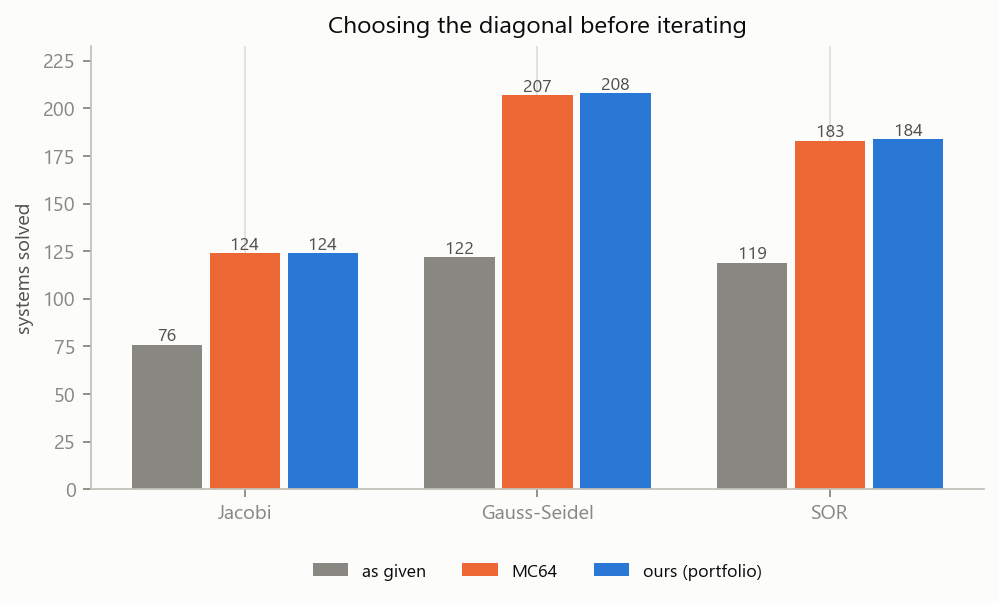
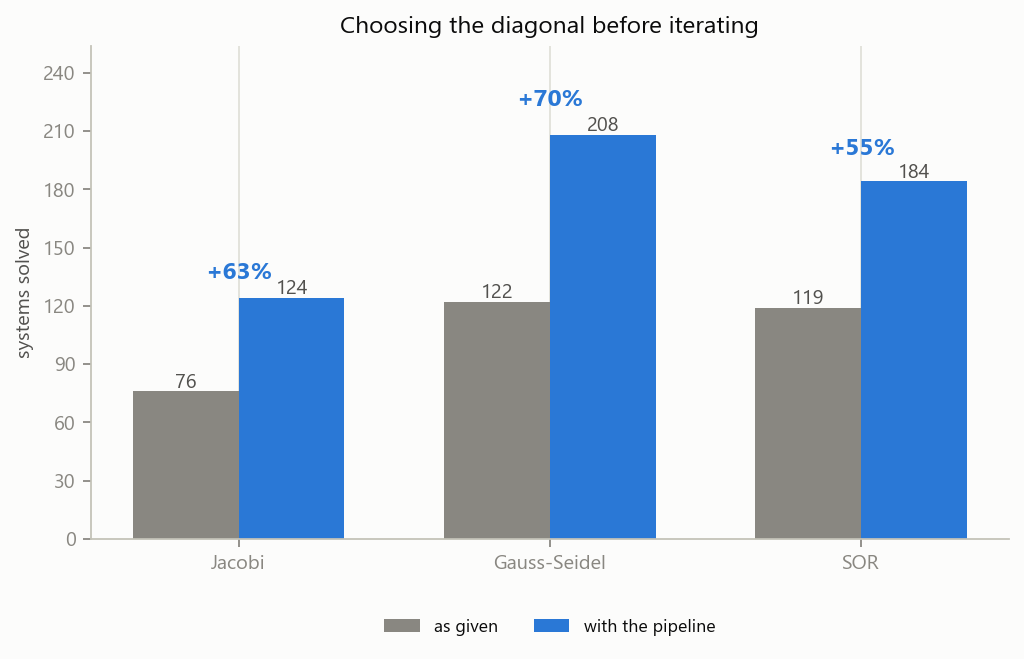
Draw the claim the headline figure is making, and pair it with the right baseline
The headline chart had three bars -- as given, MC64, ours -- and the last two came out
124/124, 207/208, 183/184. A reader saw three near-identical columns and asked whether
the pipeline did anything, which is not the question the figure exists to answer. The
claim is two-valued: with the pipeline against without. Two bars now, with the gain
printed above each pair. The per-objective attribution is a table in RESULTS.md, where
numbers can carry their denominators; 15_reordering_rescue is gone, since its content
was that table drawn as bars of 0, 3 and 1.

Drawing it exposed a number mismatch in the write-up. The 'before' column was taken from
the main sweep (Jacobi 75, Gauss-Seidel 121) while the 'after' came from the reordering
study, and the divergence guard was raised from 1e4 to 1e12 between those two runs. The
stricter guard suppresses one or two convergences, so that pairing inflated the gain for
free. Both columns now come from the same run: 76 -> 124 (+63%), 122 -> 208 (+70%),
119 -> 184 (+55%), and SCOPE says why.

Added 20_ilu_hole for the second contribution, which had no figure at all. Left panel:
on the 166 matrices where no incomplete factorization can be built, Gauss-Seidel solves
0, GMRES 11, BiCGSTAB 12, and sparse direct 148 -- so these are systems the iterative
toolkit cannot reach rather than intrinsically hard ones. Right panel: choosing the
diagonal first makes 150 constructible and 17 solve. The gap between 150 and 17 is drawn
rather than hidden.

Changed region(s): [[0.0, 0.0896, 0.993, 0.8657], [0.3103, 0.9254, 0.7758, 0.9851], [0.3103, 0.0299, 0.7447, 0.0597]]

diff --git a/tools/make_figures.py b/tools/make_figures.py
@@ -585,93 +585,47 @@ def _solved_by(reo, cond, method):
 
 
 def fig_reordering_scoreboard(reo):
-    """Systems solved by each stationary method under each condition.
+    """The headline: what the stationary methods solve with and without the pipeline.
 
-    The headline. Counts, not rates: every condition sees the same corpus, so the
-    denominator is identical and a rate would only hide the size of the change.
+    Two bars, because the claim is two-valued. An earlier version drew MC64 as a third
+    bar to show what one component contributes, which put a near-identical third column
+    beside ours and made the reader's question "did the pipeline do anything?" rather
+    than "how much did it help?". That attribution is a table in RESULTS.md section 8,
+    where the numbers can carry their own denominators.
     """
     methods = [m for m in ("Jacobi", "Gauss-Seidel", "SOR") if m in set(reo.method)]
-    conds = [c for c in COND_ORDER if c in set(reo.condition)]
-    if not methods or not conds:
+    if not methods or "best" not in set(reo.condition):
         return
-    fig, ax = plt.subplots(figsize=(7.2, 3.6))
-    w = 0.8 / len(conds)
+    before = [len(_solved_by(reo, "none", m)) for m in methods]
+    after = [len(_solved_by(reo, "best", m)) for m in methods]
+
+    fig, ax = plt.subplots(figsize=(7.4, 4.0))
     x = np.arange(len(methods))
-    for k, c in enumerate(conds):
-        vals = [len(_solved_by(reo, c, m)) for m in methods]
-        pos = x + (k - (len(conds) - 1) / 2) * w
-        ax.bar(pos, vals, w * 0.9, color=COND_COLOUR[c], label=COND_LABEL[c])
-        for xi, v in zip(pos, vals):
-            ax.text(xi, v, str(v), ha="center", va="bottom", fontsize=8, color=INK2)
+    w = 0.34
+    ax.bar(x - w / 2, before, w, color=MUTED, label="as given")
+    ax.bar(x + w / 2, after, w, color=C1, label="with the pipeline")
+    for xi, (b, a) in zip(x, zip(before, after)):
+        ax.text(xi - w / 2, b, str(b), ha="center", va="bottom", fontsize=9, color=INK2)
+        ax.text(xi + w / 2, a, str(a), ha="center", va="bottom", fontsize=9, color=INK2)
+        if b:
+            ax.text(xi, max(b, a) * 1.06, f"+{100 * (a - b) / b:.0f}%", ha="center",
+                    va="bottom", fontsize=11, color=C1, fontweight="bold")
     ax.set_xticks(x)
     ax.set_xticklabels(methods)
     ax.set_ylabel("systems solved")
     ax.set_title("Choosing the diagonal before iterating")
-    _count_axis(ax, [len(_solved_by(reo, c, m)) for c in conds for m in methods],
-                len(conds))
+    _count_axis(ax, before + after, 2)
+    ax.set_ylim(0, max(after) * 1.22)
     _hide_grid_x(ax)
     n_mat = reo.matrix.nunique()
     save(fig, "14_reordering_scoreboard",
-         "Systems solved out of {} matrices. 'As given' is the order the rows arrived "
-         "in; MC64 maximises the product of the diagonal; ours computes all four "
-         "candidate permutations and keeps the one with the smallest estimated "
-         "rho(T_GS). Because 'no permutation' is one of those candidates, the portfolio "
-         "cannot score below the control.".format(n_mat))
-
-
-def fig_reordering_rescue(reo):
-    """Who rescues what: MC64, ours, or both.
-
-    The bar that matters is 'ours only' -- systems ours solves that MC64 does not. If it
-    is small, the contribution is the guarantee and the portfolio, not the objective.
-    """
-    methods = [m for m in ("Jacobi", "Gauss-Seidel", "SOR") if m in set(reo.method)]
-    if not methods:
-        return
-    # 'Neither' is 15x the recovered categories and, drawn as a bar, flattens the three
-    # that carry the comparison into invisible slivers. It is reported per method as a
-    # number instead -- present, but not crowding out the question the chart asks.
-    cats = ["MC64 only", "both", "ours only"]
-    colours = [C2, C3, C1]
-    seen, unrecovered = [], []
-    fig, ax = plt.subplots(figsize=(7.2, 3.8))
-    w = 0.8 / len(cats)
-    x = np.arange(len(methods))
-    for m in methods:
-        base = _solved_by(reo, "none", m)
-        mc = _solved_by(reo, "mc64", m) - base
-        ours = _solved_by(reo, "best", m) - base
-        unrecovered.append(len(set(reo[reo.method == m].matrix) - base - mc - ours))
-    for k, (cat, col) in enumerate(zip(cats, colours)):
-        vals = []
-        for m in methods:
-            base = _solved_by(reo, "none", m)
-            mc = _solved_by(reo, "mc64", m) - base
-            ours = _solved_by(reo, "best", m) - base
-            pick = {"MC64 only": mc - ours, "both": mc & ours,
-                    "ours only": ours - mc}[cat]
-            vals.append(len(pick))
-        seen += vals
-        pos = x + (k - (len(cats) - 1) / 2) * w
-        ax.bar(pos, vals, w * 0.9, color=col, label=cat)
-        for xi, v in zip(pos, vals):
-            ax.text(xi, v, str(v), ha="center", va="bottom", fontsize=8, color=INK2)
-    ax.set_xticks(x)
-    ax.set_xticklabels(["{}\nstill unrecovered: {}".format(m, u)
-                        for m, u in zip(methods, unrecovered)])
-    ax.set_ylabel("matrices recovered")
-    ax.set_title("Of the systems that fail in the order they arrive, which are recovered")
-    _count_axis(ax, seen, len(cats))
-    _hide_grid_x(ax)
-    save(fig, "15_reordering_rescue",
-         "Restricted to systems the method fails on as given, so the bars measure "
-         "recovery rather than difficulty. 'Ours only' is the column the novelty claim "
-         "rests on: matrices recovered by the convergence-oriented objectives that "
-         "MC64's product objective does not. It is 4 across all three methods, against "
-         "197 recovered by both -- the reordering idea works and is overwhelmingly "
-         "MC64's result, not this objective's. 'MC64 only' is 2, where the portfolio's "
-         "cheap power-iteration estimate ranked a worse candidate first. The much "
-         "larger count of systems no permutation recovers is printed under each method.")
+         f"Systems solved out of {n_mat} matrices, with the solvers themselves unchanged "
+         "-- only the order of the rows and, for SOR, the relaxation factor. "
+         f"{sum(after) - sum(before)} systems recovered across the three methods and "
+         "none lost, which the portfolio guarantees rather than merely achieves: "
+         "'change nothing' is one of the candidates it selects among. Which objective "
+         "won each matrix, and what each contributes on its own, is in RESULTS.md "
+         "section 8.")
 
 
 def fig_dominance(reo):
@@ -947,6 +901,80 @@ def fig_iteration_counts(res):
          "steps, not less work; figure 04 counts the work.")
 
 
+def fig_ilu_hole(res, probe):
+    """The 166 matrices on which no incomplete factorization can be built.
+
+    Two panels because it is a two-part claim. Left: the hole is real and it takes the
+    whole preconditioned family down at once -- on those matrices the iterative solvers
+    collectively manage almost nothing while a sparse direct solver handles 148 of them.
+    Right: choosing the diagonal first makes 150 of the 166 constructible.
+
+    The gap between 150 built and 17 solved is drawn, not hidden. A constructible
+    preconditioner is not a converging solve, and 133 matrices get one and still fail.
+    """
+    n_total = len(probe)
+    if not n_total:
+        return
+    targets = set(probe.matrix)
+    base = res[(res.refinement_passes == 0) & (res.matrix.isin(targets))]
+
+    fig, (ax, ax2) = plt.subplots(1, 2, figsize=(9.6, 3.9),
+                                  gridspec_kw={"width_ratios": [1.15, 1]})
+
+    # --- left: who can solve these today
+    rows = [("Gauss-Seidel", C3), ("GMRES(30)", "#8b5cf6"), ("BiCGSTAB", C2),
+            ("spsolve (SuperLU)", C1)]
+    labels, vals, colours = [], [], []
+    for m, colour in rows:
+        s = base[base.method == m]
+        if not len(s):
+            continue
+        labels.append(m)
+        vals.append(int((s.status == "solved").sum()))
+        colours.append(colour)
+    y = np.arange(len(labels))
+    ax.barh(y, vals, 0.6, color=colours)
+    for yi, v in zip(y, vals):
+        ax.text(v, yi, f"  {v}", va="center", fontsize=9, color=INK2)
+    ax.set_yticks(y)
+    ax.set_yticklabels(labels)
+    ax.invert_yaxis()
+    ax.set_xlim(0, n_total * 1.12)
+    ax.xaxis.set_major_locator(mticker.MaxNLocator(integer=True))
+    ax.set_xlabel(f"solved, of the {n_total} matrices where ILU cannot be built")
+    ax.set_title("The hole: no preconditioner, no iterative solve")
+    ax.grid(axis="y", visible=False)
+
+    # --- right: what choosing the diagonal recovers
+    built = int(probe["best"].sum())
+    solved = int((probe["best_status"] == "solved").sum())
+    stages = ["ILU builds\nas given", "ILU builds\nafter step 1", "and solves\nafter step 1"]
+    heights = [0, built, solved]
+    bars = ax2.bar(np.arange(3), heights, 0.55,
+                   color=[STATUS["not_applicable"], C1, STATUS["solved"]])
+    for b, h in zip(bars, heights):
+        ax2.text(b.get_x() + b.get_width() / 2, h, str(h), ha="center", va="bottom",
+                 fontsize=10, color=INK2)
+    ax2.set_xticks(np.arange(3))
+    ax2.set_xticklabels(stages, fontsize=8.5)
+    ax2.set_ylim(0, n_total * 1.15)
+    ax2.yaxis.set_major_locator(mticker.MaxNLocator(integer=True))
+    ax2.set_ylabel(f"matrices (of {n_total})")
+    ax2.set_title("What choosing the diagonal recovers")
+    _hide_grid_x(ax2)
+
+    save(fig, "20_ilu_hole",
+         f"On {n_total} matrices no usable incomplete factorization exists, which removes "
+         "all four preconditioned methods at once. What is left solves almost none of "
+         "them, while a sparse direct solver handles most -- so these are not intrinsically "
+         "hard systems, they are systems the iterative toolkit cannot reach. The cause is "
+         "narrow: build_ilu falls back to diagonal scaling when spilu fails, and a zero on "
+         f"the diagonal closes that door too. Choosing the diagonal first makes {built} of "
+         f"the {n_total} constructible and {solved} solve outright. The gap between those "
+         "two numbers is the honest part: a preconditioner that can be built is not a "
+         "solve, and the remainder get one and still do not converge.")
+
+
 # --------------------------------------------------------------- driver
 
 def main():
@@ -978,6 +1006,7 @@ def main():
     spec = load("spectral.csv")
     study = load("refinement_study.csv")
     reo = load("reordering_study.csv")
+    ilu_probe = load("ilu_reorder_probe.csv")
 
     print(f"\nwriting figures to {OUT}")
     if res is not None:
@@ -998,9 +1027,10 @@ def main():
             fig_prediction(res, spec)
     if study is not None:
         fig_refinement(study)
+    if ilu_probe is not None and res is not None:
+        fig_ilu_hole(res, ilu_probe)
     if reo is not None:
         fig_reordering_scoreboard(reo)
-        fig_reordering_rescue(reo)
         fig_dominance(reo)
 
     if FIGURES:

diff --git a/results/figures/index.md b/results/figures/index.md
@@ -14,6 +14,6 @@
 - `08_hypothesis_coverage.png` -- Stein-Rosenberg (1948) forbids Jacobi-converges-while-Gauss-Seidel-does-not for M-matrices; Householder-John (1958) guarantees Gauss-Seidel for SPD. Coverage of these classes is what explains the benchmark's own headline.
 - `09_prediction_vs_observation.png` -- 'too_slow' is the case the textbook criterion cannot express: rho < 1, so convergence is guaranteed, but not within any usable iteration budget.
 - `10_refinement_effect.png` -- Refinement applied to every method, not to one. Given the same wrapper, Jacobi becomes the most accurate method in the benchmark and the dispatched ILU-Krylov does not -- but Jacobi pays roughly twenty times the work for it, which is why cost is plotted beside accuracy rather than left to a footnote. In the first sweep only one method received refinement, and that is where its accuracy advantage came from.
-- `14_reordering_scoreboard.png` -- Systems solved out of 927 matrices. 'As given' is the order the rows arrived in; MC64 maximises the product of the diagonal; ours computes all four candidate permutations and keeps the one with the smallest estimated rho(T_GS). Because 'no permutation' is one of those candidates, the portfolio cannot score below the control.
-- `15_reordering_rescue.png` -- Restricted to systems the method fails on as given, so the bars measure recovery rather than difficulty. 'Ours only' is the column the novelty claim rests on: matrices recovered by the convergence-oriented objectives that MC64's product objective does not. It is 4 across all three methods, against 197 recovered by both -- the reordering idea works and is overwhelmingly MC64's result, not this objective's. 'MC64 only' is 2, where the portfolio's cheap power-iteration estimate ranked a worse candidate first. The much larger count of systems no permutation recovers is printed under each method.
+- `20_ilu_hole.png` -- On 166 matrices no usable incomplete factorization exists, which removes all four preconditioned methods at once. What is left solves almost none of them, while a sparse direct solver handles most -- so these are not intrinsically hard systems, they are systems the iterative toolkit cannot reach. The cause is narrow: build_ilu falls back to diagonal scaling when spilu fails, and a zero on the diagonal closes that door too. Choosing the diagonal first makes 150 of the 166 constructible and 17 solve outright. The gap between those two numbers is the honest part: a preconditioner that can be built is not a solve, and the remainder get one and still do not converge.
+- `14_reordering_scoreboard.png` -- Systems solved out of 927 matrices, with the solvers themselves unchanged -- only the order of the rows and, for SOR, the relaxation factor. 199 systems recovered across the three methods and none lost, which the portfolio guarantees rather than merely achieves: 'change nothing' is one of the candidates it selects among. Which objective won each matrix, and what each contributes on its own, is in RESULTS.md section 8.
 - `16_dominance.png` -- Left: the worst row ratio each objective achieves, matrix by matrix. Points below the line are matrices where the convergence-oriented objective beats MC64 on the quantity that governs convergence; there are none above it. This is the method doing exactly what it is designed to do. Right: the same quantity as a distribution. What the improvement does NOT buy is the guarantee -- a ratio below 1 is strict diagonal dominance and forces both Jacobi and Gauss-Seidel to converge, and 43 matrices already satisfy it while no permutation brings a single further matrix under the threshold. The gain is real and it lands in a regime where it does not decide convergence. Finite positive ratios only; up to 491 matrices have an infinite ratio (a zero diagonal) under some objective.

diff --git a/SCOPE.md b/SCOPE.md
@@ -142,9 +142,14 @@ solvers by 55-72%, measured across 927 real sparse matrices.**
 
 | method | as given | with the pipeline | |
 |---|---|---|---|
-| Jacobi | 75 | **124** | **+65%** |
-| Gauss-Seidel | 121 | **208** | **+72%** |
+| Jacobi | 76 | **124** | **+63%** |
+| Gauss-Seidel | 122 | **208** | **+70%** |
 | SOR | 119 | **184** | **+55%** |
+
+Both columns come from the *same* run. The main sweep's baseline for these methods is
+one or two systems lower, because the divergence guard was raised from 1e4 to 1e12
+between the two, and pairing a stricter "before" with a looser "after" would inflate the
+gain for free.
 
 199 systems recovered. **None lost** — the pipeline cannot score below the control,
 because "change nothing" is one of the candidates it chooses among.

diff --git a/README.md b/README.md
@@ -22,8 +22,8 @@ diagonal before the solver runs:
 
 | method | as given | with the pipeline | |
 |---|---|---|---|
-| Jacobi | 75 | **124** | +65% |
-| Gauss-Seidel | 121 | **208** | +72% |
+| Jacobi | 76 | **124** | +63% |
+| Gauss-Seidel | 122 | **208** | +70% |
 | SOR | 119 | **184** | +55% |
 
 199 systems recovered, none lost. The solvers themselves are unmodified: the pipeline
